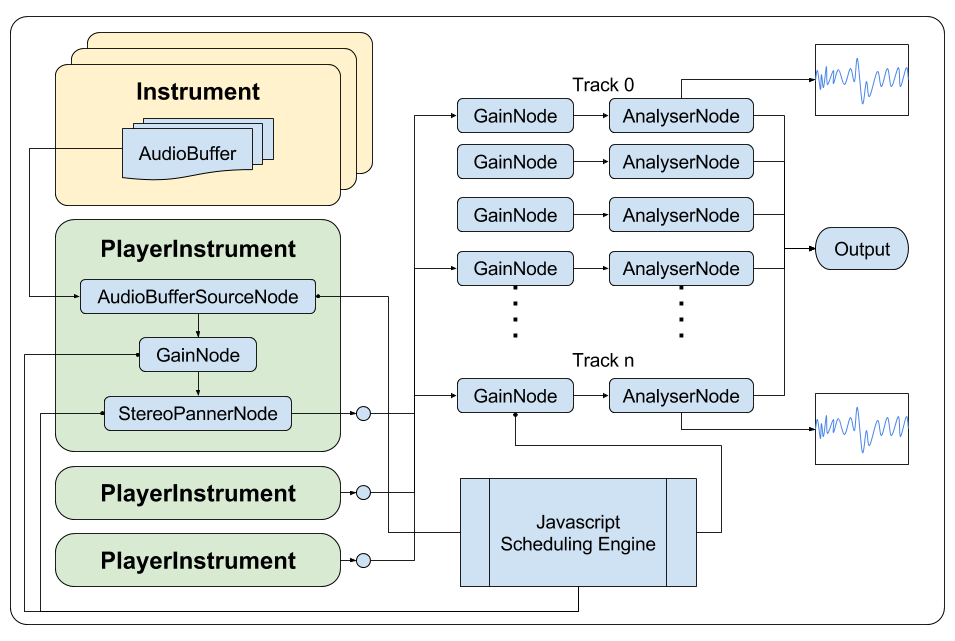
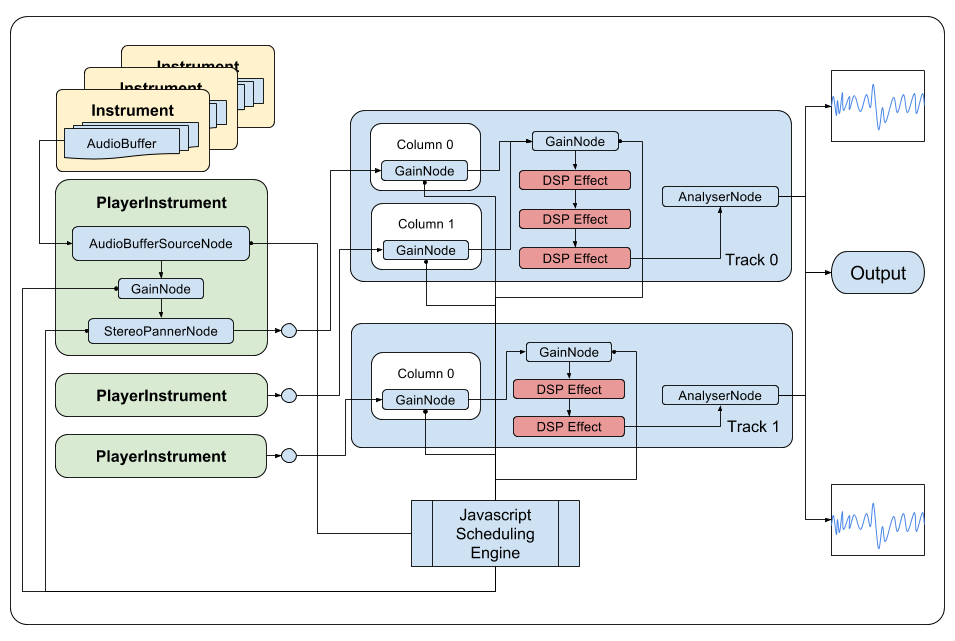
Start some technical documentation.

diff --git a/docs/_documentation/tech.md b/docs/_documentation/tech.md
@@ -1,0 +1,15 @@
+---
+title: Technology
+layout: documentation
+index: 120
+indent: 1
+---
+
+WeTracker Technology
+====================
+
+<a href="{{site.baseurl}}/images/node_graphs.png">
+  <img src="{{site.baseurl}}/images/node_graphs.png" width="100%"/>
+</a>
+
+[modeline]: # ( vim: set textwidth=79: )
